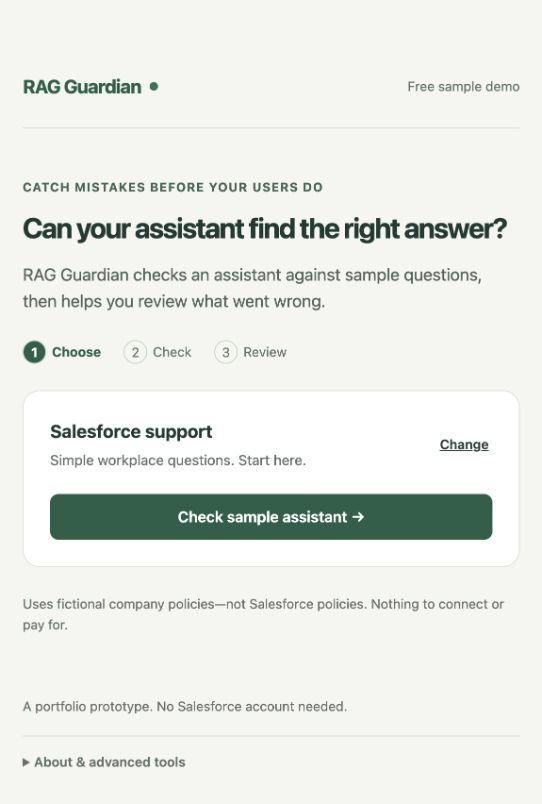
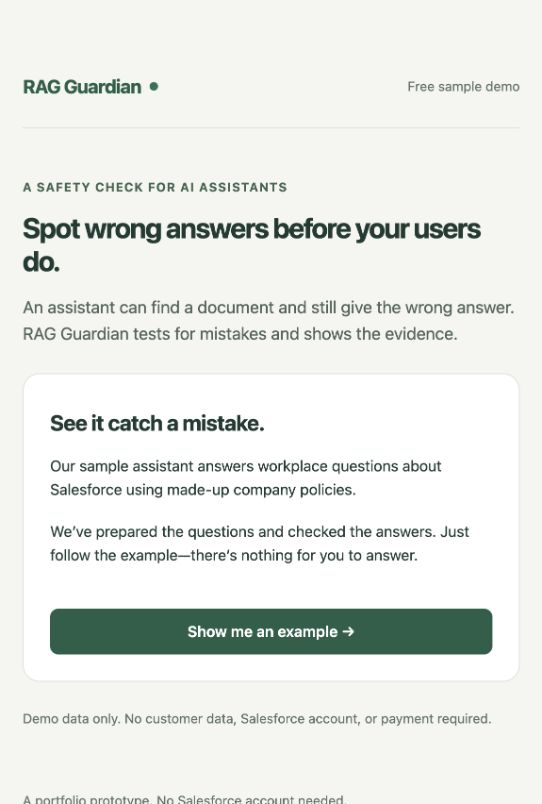
Replace visitor review tasks with explained demo and record AI review

diff --git a/public/visitor.js b/public/visitor.js
@@ -1,0 +1,8 @@
+const $=s=>document.querySelector(s);
+const esc=v=>String(v??'').replace(/[&<>"']/g,c=>({'&':'&amp;','<':'&lt;','>':'&gt;','"':'&quot;',"'":'&#39;'}[c]));
+let report;
+function show(html){$('#content').innerHTML=html;$('#content').focus();window.scrollTo(0,0);}
+function home(){show(`<p class="eyebrow">A safety check for AI assistants</p><h1>Spot wrong answers before your users do.</h1><p class="intro">An assistant can find a document and still give the wrong answer. RAG Guardian tests for mistakes and shows the evidence.</p><section class="card"><h2>See it catch a mistake.</h2><p>Our sample assistant answers workplace questions about Salesforce using made-up company policies.</p><p>We’ve prepared the questions and checked the answers. Just follow the example—there’s nothing for you to answer.</p><button class="primary wide" id="example">Show me an example →</button></section><p class="muted">Demo data only. No customer data, Salesforce account, or payment required.</p>`);}
+function example(){const r=report.rows.find(r=>r.id==='SUP-07');if(!r)throw Error('The sample example is unavailable.');const knownFailure=!r.passed&&r.sourceIds.length===1&&r.sourceIds[0]==='salesforce-support:sandbox';show(`<button class="text" id="home">← Back to introduction</button><p class="eyebrow">An example, explained</p><h1>${knownFailure?'A document was found. But it answered the wrong question.':'Here is the current test result.'}</h1><p class="intro">Someone asks a coding question. This support assistant only has workplace policies—not coding instructions.</p><section class="card"><p class="label">What someone asked</p><p>${esc(r.question)}</p><p class="muted">In plain English: “How does this code create an account?”</p><p class="label">What the assistant returned</p><div class="answer">${esc(r.answer)}</div><span class="tag ${r.passed?'':'warning'}">${r.passed?'Automatic check passed':'RAG Guardian flagged this answer'}</span></section><section class="completion"><h2>${knownFailure?'Why this is a mistake':'What we expected'}</h2><p>${knownFailure?'Rules about test data do not answer a coding question. The assistant should say it does not have the information, instead of returning an unrelated policy.':'The assistant should decline to answer because its documents contain no coding instructions.'}</p></section><p class="label">What the team does next</p><p>Improve how the assistant handles questions its documents cannot answer, then run the same tests again. This demo identifies the problem; it has not fixed it.</p><details><summary>Where did the data come from?</summary><p>This example uses the Salesforce support dataset: six fictional Northstar company policies, written for this project. They cover access requests, data export, sandbox testing, an old access policy, incidents, and onboarding. They are not official Salesforce guidance.</p><p>Eight prepared questions test the assistant. ${report.rows.filter(r=>r.passed).length} passed the automatic checks in this run. The answer key was checked by AI against these policies; it has not been independently human-validated.</p><p>The response above is an exact retrieved excerpt, not a generated AI answer. The separate developer dataset uses public Salesforce code examples and is not used in this demo.</p></details><button class="primary wide" id="download">Download this test report</button><p class="muted">You’re done—no quiz or review form. This small test does not certify an assistant as ready for production.</p>`);}
+document.addEventListener('click',async e=>{const b=e.target.closest('button');if(!b)return;if(b.id==='home'){home();$('#message').textContent='';}if(b.id==='example'){b.disabled=true;b.textContent='Running the sample…';try{const res=await fetch('/api/datasets/salesforce-support/evaluate');if(!res.ok)throw Error('Could not run the sample. Please try again.');report=await res.json();example();}catch(err){$('#message').textContent=err.message;b.disabled=false;b.textContent='Show me an example →';}}if(b.id==='download'&&report){const url=URL.createObjectURL(new Blob([JSON.stringify(report,null,2)],{type:'application/json'}));const a=document.createElement('a');a.href=url;a.download='salesforce-support-test-report.json';a.click();setTimeout(()=>URL.revokeObjectURL(url),1000);}});
+home();

diff --git a/src/server.js b/src/server.js
@@ -6,7 +6,7 @@ import { documents, profiles } from './data.js';
 import { assistants, loadDataset } from './datasets.js';
 import { answerQuestion, evaluateDataset } from './retrieval.js';
 
-const files = { '/': ['../public/simple.html', 'text/html'], '/datasets': ['../public/simple.html', 'text/html'], '/simple.js': ['../public/simple.js', 'text/javascript'], '/simple.css': ['../public/simple.css', 'text/css'], '/advanced': ['../public/index.html', 'text/html'], '/dataset-lab': ['../public/datasets.html', 'text/html'], '/app.js': ['../public/app.js', 'text/javascript'], '/style.css': ['../public/style.css', 'text/css'], '/datasets.js': ['../public/datasets.js', 'text/javascript'] };
+const files = { '/visitor.js': ['../public/visitor.js', 'text/javascript'], '/': ['../public/simple.html', 'text/html'], '/datasets': ['../public/simple.html', 'text/html'], '/simple.js': ['../public/simple.js', 'text/javascript'], '/simple.css': ['../public/simple.css', 'text/css'], '/advanced': ['../public/index.html', 'text/html'], '/dataset-lab': ['../public/datasets.html', 'text/html'], '/app.js': ['../public/app.js', 'text/javascript'], '/style.css': ['../public/style.css', 'text/css'], '/datasets.js': ['../public/datasets.js', 'text/javascript'] };
 export function createServer() {
   return http.createServer(async (req, res) => {
     const send = (status, body, type = 'application/json') => { res.writeHead(status, { 'Content-Type': type + '; charset=utf-8', 'X-Content-Type-Options': 'nosniff', 'Cache-Control': 'no-store', 'Content-Security-Policy': "default-src 'self'; style-src 'self'; script-src 'self'; connect-src 'self'; object-src 'none'; base-uri 'none'; frame-ancestors 'none'" }); res.end(type === 'application/json' ? JSON.stringify(body) : body); };

diff --git a/public/simple.html b/public/simple.html
@@ -5,6 +5,6 @@
 <header><a href="/" class="brand">RAG Guardian<span class="brand-dot" aria-hidden="true"></span></a><span class="demo">Free sample demo</span></header>
 <main id="content" tabindex="-1"><p>Loading your sample…</p></main>
 <p id="message" role="status" aria-live="polite"></p>
-<footer><span>A portfolio prototype. No Salesforce account needed.</span><details><summary>About & advanced tools</summary><p>This demo searches sample documents and checks the excerpts it finds. It does not generate AI answers or approve a production release.</p><a href="/dataset-lab">Full dataset lab</a><a href="/advanced">Release experiments</a><a href="https://github.com/pratiksha0108/rag-guardian">Project & documentation</a></details></footer>
-<script type="module" src="/simple.js"></script>
+<footer><span>A portfolio prototype. No Salesforce account needed.</span><details><summary>Builder workspace & project details</summary><p>Optional tools for developing the project, not tasks for visitors. Existing browser review notes are preserved.</p><a href="/dataset-lab">Builder dataset lab</a><a href="/advanced">Release experiments</a><a href="https://github.com/pratiksha0108/rag-guardian">Project & documentation</a></details></footer>
+<script type="module" src="/visitor.js"></script>
 </body></html>

diff --git a/tests/datasets.test.js b/tests/datasets.test.js
@@ -71,11 +71,11 @@ test('query route validates scope and keeps reserved split out of web workflow',
   try {
     assert.equal((await fetch(base+'/datasets')).status,200);
     const home=await (await fetch(base+'/')).text();
-    assert.match(home,/simple.js/);
+    assert.match(home,/visitor.js/);
     assert.equal(await (await fetch(base+'/datasets')).text(),home);
     assert.match(await (await fetch(base+'/advanced')).text(),/app.js/);
     assert.match(await (await fetch(base+'/dataset-lab')).text(),/datasets.js/);
-    for(const asset of ['/simple.js','/simple.css'])assert.equal((await fetch(base+asset)).status,200);
+    for(const asset of ['/visitor.js','/simple.css'])assert.equal((await fetch(base+asset)).status,200);
     assert.equal((await (await fetch(base+'/api/datasets')).json()).length,2);
     assert.equal((await fetch(base+'/api/datasets/salesforce-lwc/evaluate?split=reserved')).status,400);
     assert.equal((await fetch(base+'/api/datasets/salesforce-lwc?split=reserved')).status,400);

diff --git a/README.md b/README.md
@@ -8,7 +8,9 @@ An average quality score can improve while an assistant starts exposing restrict
 
 ## Start here
 
-The home page is a guided walkthrough: **choose a sample → check it → review one answer at a time**. Start with Salesforce support and click **Check sample assistant**. Flagged answers appear first; evidence and technical details stay collapsed until needed. Your review choices are saved in this browser and can be downloaded.
+The home page is a visitor demo, not a review task. Click **Show me an example** to run the Salesforce support sample and see an unrelated answer explained. No visitor answers or Salesforce knowledge are required. The page names the fictional dataset and distinguishes retrieved excerpts from generated answers.
+
+The eight support answer keys have an [AI source consistency review](datasets/salesforce-support/ai-review.json). Seven pipeline responses pass; one retrieves unrelated evidence. This review is not independent human validation and does not approve a release. Existing user review notes remain untouched in the optional builder lab.
 
 The original release dashboard is still available at `/advanced`, and the full dataset lab at `/dataset-lab`. `/datasets` now opens the same guided experience as the home page.
 
